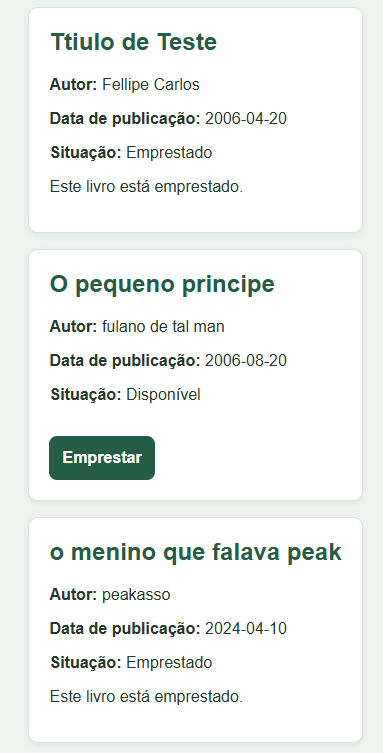
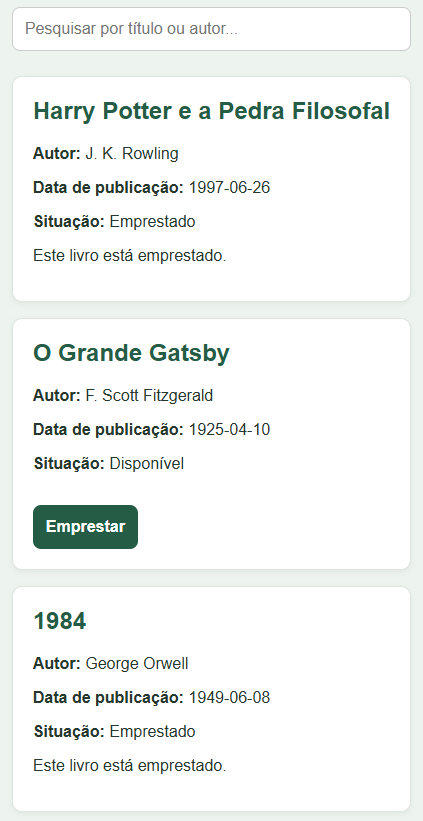
testes realizados com evidencias

Changed region(s): [[0.0574, 0.3665, 0.9478, 0.9469], [0.0574, 0.0, 0.9478, 0.336], [0.9191, 0.9774, 0.9478, 1.0]]

diff --git a/docs/TESTES.md b/docs/TESTES.md
@@ -22,7 +22,7 @@
 
 • Situação: passou 
 
-evidencias: ![alt text](image.png) e ![alt text](image-1.png)
+evidencias: ![alt text](image.png) e em outra conta: ![alt text](image-1.png)
 
 
 
@@ -41,5 +41,5 @@ evidencia: ![alt text](image-2.png)
 
 # Plano alternativo
 
-plano de apresentação alternativo, em caso de o site não funcionar, será utilizado de imagens comprovando o funcionamento do site em um arquivo de slide-show 
+plano de apresentação alternativo, em caso de o site não funcionar, será utilizado de imagens comprovando o funcionamento do site em um arquivo de slide-show ou PDF
 
